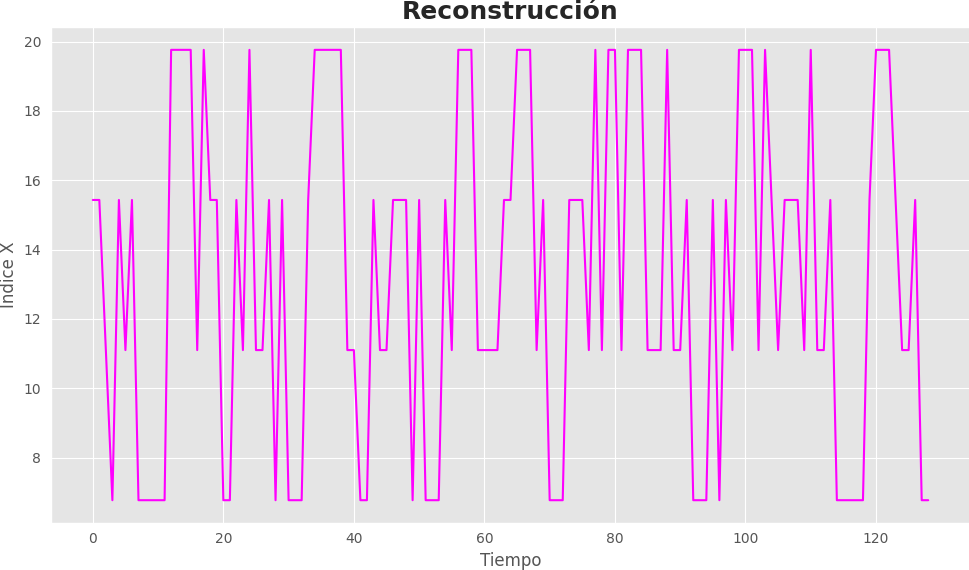
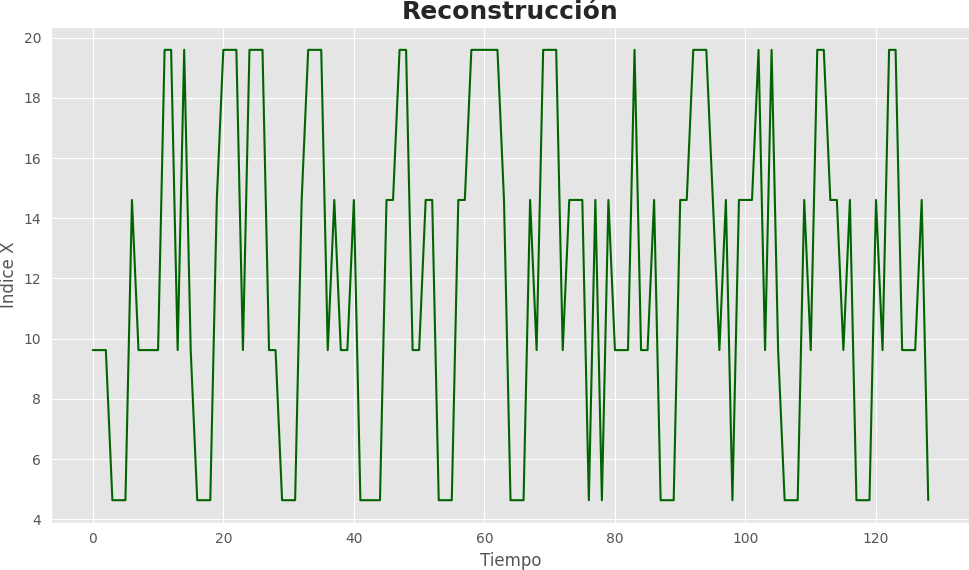
se añaden un par de test unitarios

diff --git a/generate_errors.py b/generate_errors.py
@@ -6,29 +6,31 @@ import tgen.calculate_ts_errors as cerr
 import sklearn.metrics as metrics
 import numpy as np
 import matplotlib.pyplot as plt
+import tgen.ts_plots as plot
 from PIL import Image
 from dtaidistance import dtw
 import cv2
 def main():
     data_name="WISDM"
-    data_folder="/home/adriano/Escritorio/TFG/data/WISDM/"
-     #voy a  obtener el maximo de todo el data set.
-    X_train, y_train, sj_train = act.load_numpy_datasets(data_name, data_folder, USE_RECONSTRUCTED_DATA=False)
-    
     data_folder="/home/adriano/Escritorio/TFG/data/WISDM/tseries/recurrence_plot/sampling_loto/3-fold/fold-0/train"
-    data_F1="/home/adriano/Escritorio/TFG/data/WISDM/tseries/recurrence_plot/"
-    #errores = np.load(f"{data_F1}/errores_rec2.npy")
+     #voy a  obtener el maximo de todo el data set.
+    img_type="MTF"
     indices_T=np.load(f"{data_folder}/training_data.npy")
-    X_all_rec=np.load(f"{data_folder}/X_all_rec.npy")
     
-    data_F1="/home/adriano/Escritorio/TFG/data/WISDM/tseries/GAF/sampling_loto/3-fold/fold-0/train"
-    errores = np.load(f"{data_F1}/errores_gaf.npy")
-    X_all_rec=np.load(f"/home/adriano/Escritorio/TFG/data/WISDM/tseries/GAF/sampling_loto/3-fold/fold-0/train/X_all_gaf.npy")
-    #errores2 = np.load(f"{data_folder}/errores_rec.npy")
+    if img_type=="RP":
+        data_F1="/home/adriano/Escritorio/TFG/data/WISDM/tseries/recurrence_plot/"
+        errores = np.load(f"{data_F1}/errores_rec.npy")
+        X_all_rec=np.load(f"{data_folder}/X_all_rec.npy")
+    if img_type=="GAF":
+        data_F1="/home/adriano/Escritorio/TFG/data/WISDM/tseries/GAF/sampling_loto/3-fold/fold-0/train"
+        errores = np.load(f"{data_F1}/errores_gaf.npy")
+        X_all_rec=np.load(f"/home/adriano/Escritorio/TFG/data/WISDM/tseries/GAF/sampling_loto/3-fold/fold-0/train/X_all_gaf.npy")
+        #errores2 = np.load(f"{data_folder}/errores_rec.npy")
     #data_folder="/home/adriano/Escritorio/TFG/data/WISDM/tseries/recurrence_plot/sampling_loto/3-fold/fold-0/train"
-    data_F1="/home/adriano/Escritorio/TFG/data/WISDM/tseries/MTF/"
-    #errores = np.load(f"{data_F1}/errores_mtf.npy")
-    
+    if img_type=="MTF":
+        data_F1="/home/adriano/Escritorio/TFG/data/WISDM/tseries/MTF/sampling_loto/3-fold/fold-0/train"
+        errores = np.load(f"{data_F1}/errores_mtf.npy")
+        X_all_rec=np.load(f"/home/adriano/Escritorio/TFG/data/WISDM/tseries/MTF/sampling_loto/3-fold/fold-0/train/X_all_mtf.npy")
     #print(sj_train[:,0])
      #print(f"Error Absoluto Promedio: {error_absoluto}")
       #print(f"Error Relativo Promedio: {error_relativo}")
@@ -51,11 +53,11 @@ def main():
                     print("ERROR TIPO {tipoerrores[i]}en dim {j}es :",np.mean(errores[:,i,j]))
                 print("ERROR TIPO {tipoerrores[i]} medio global es :",np.mean(errores[:,i,:]))
             """
-    print("min r Promedio",(errores[:,4,:][errores[:,4,:]<0.97]))    
-    indices=np.where(errores[:,4,:]<0.97) #PEOR PEARSON 2690 mejor pearson 2026
+    print("min r Promedio",(errores[:,4,:][errores[:,4,:]<4.09187097e-05]),np.min(errores[:,4,:]))    
+    indices=np.where(errores[:,4,:]<4.09187097e-05) #PEOR PEARSON 2690 mejor pearson 2026
     indices = list(zip(indices[0], indices[1]))
     print(indices)
-    print(errores[664,:,:])# 4913 candidata a mejor ideal ERROR relativo 
+    print(errores[3301,:,:])# 4913 candidata a mejor ideal ERROR relativo 
    
     """
     mejor pearson 2012 dim 0
@@ -70,10 +72,10 @@ def main():
     PEOR   ERROR relativo 3068, 1  450.10440276
           (2380, 1
     """
-    w=indices_T[664]
-    rp=X_all_rec[664]
+    w=indices_T[3301]
+    rp=X_all_rec[3301]
      
-    dim=0
+    dim=1
     """
      
      valoresa=np.linspace(-5, 20, 129)
@@ -103,43 +105,7 @@ def main():
 
 
      
-    # Configurar el estilo de los gráficos
-    plt.style.use("ggplot")  
-
-    # Gráfico original
-    plt.figure(figsize=(10, 6))
-    plt.plot(w[:, dim], marker='o', color='blue')
-    plt.title('Original', fontsize=18,fontweight="bold")
-    plt.xlabel("Tiempo", fontsize=12)
-    plt.ylabel('Índice X', fontsize=12)
-    plt.grid(True)
-    plt.tight_layout()
-    plt.savefig('original.png', bbox_inches='tight', pad_inches=0)
-    plt.clf()
-
-    # Gráfico reconstrucción
-    plt.figure(figsize=(10, 6))
-    plt.plot(rp[dim], marker='o', color='green')
-    plt.title('Reconstrucción', fontsize=18,fontweight="bold")
-    plt.xlabel('Tiempo', fontsize=12)
-    plt.ylabel('Índice X', fontsize=12)
-    plt.grid(True)
-    plt.tight_layout()
-    plt.savefig('reconstruccion.png', bbox_inches='tight', pad_inches=0)
-    plt.clf()
-
-    # Gráfico comparativa
-    plt.figure(figsize=(10, 6))
-    plt.plot(w[:, dim], marker='o', label='Original', color='blue')
-    plt.plot(rp[dim], marker='o', label='Reconstrucción', color='green')
-    plt.title('Comparativa', fontsize=18,fontweight="bold")
-    plt.xlabel("Tiempo", fontsize=12)
-    plt.ylabel('Índice X', fontsize=12)
-    plt.legend(fontsize=12)
-    plt.grid(True)
-    plt.tight_layout()
-    plt.savefig('Comparativa.png', bbox_inches='tight', pad_inches=0)
-    plt.clf()
+    plot.plot_time_series(w,rp,dim)
     
     f=np.array(w[:,dim])
     f=f[:]

diff --git a/Playground_tsplot.py b/Playground_tsplot.py
@@ -8,9 +8,11 @@ import tgen.ts_plots as plots
 import cv2
 import argparse
 
+"""./Playground_tsplot.py --image-type RP --dim 1"""
 def main():
      p = argparse.ArgumentParser(description=__doc__,formatter_class=argparse.ArgumentDefaultsHelpFormatter)
      p.add_argument('--image-type',type=str, default="RP", help='Also you can reconstruct one specific image type GAF,RP,MTF')
+     p.add_argument('--dim',type=int, default="0", help='0,1,2')
      args = p.parse_args()
      data_name="WISDM"
      data_folder="/home/adriano/Escritorio/TFG/data/WISDM/"
@@ -20,12 +22,8 @@ def main():
      #print(sj_train[:,0])
      #print(y_train[:,0])
      #print(X_train)
-     print("minimo",np.min(X_train))
-     print("maximo",np.max(X_train))
-     MAX=np.max(X_train)
-     MIN=np.min(X_train)
      #he obtenido el máximo y el minimo del dataset minimo -78.47761 maximo 66.615074
-     a=20
+     a=3301
      w = X_train[a]
      sj = sj_train[a][0]
      w_y = y_train[a]
@@ -39,24 +37,26 @@ def main():
          maximos=[np.max(l[:,0]),np.max(l[:,1]),np.max(l[:,2])]
          minimos=[np.min(l[:,0]),np.min(l[:,1]),np.min(l[:,2])]
          dictionary[k]=[maximos,minimos]
+
+     dim=args.dim
      if args.image_type=="MTF":
-        img = mtf.SavevarMTF_XYZ(w, sj, 0, "x", normalized = 1, path=f"./", TIME_STEPS=129) 
-        imagen = cv2.imread("./1600x0mtf.png")  
+        img = mtf.SavevarMTF_XYZ(w, 0, 0, "x", normalized = 1, path=f"./", TIME_STEPS=129) 
+        imagen = cv2.imread("./0x0mtf.png")  
         imagen = cv2.cvtColor(imagen, cv2.COLOR_BGR2RGB)
         print("Image shape",imagen.shape)
         rp=mtf.Reconstruct_MTF(imagen,dictionary,a)
      if  args.image_type=="RP": 
-        img = rec.SavevarRP_XYZ(w, sj, 0, "x", normalized = 1, path=f"./", TIME_STEPS=129) 
-        imagen = cv2.imread("./1600x0.png")  
+        img = rec.SavevarRP_XYZ(w, 0, 0, "x", normalized = 1, path=f"./", TIME_STEPS=129) 
+        imagen = cv2.imread("./0x0.png")  
         imagen = cv2.cvtColor(imagen, cv2.COLOR_BGR2RGB)
         print("Image shape",imagen.shape)
         rp,aux=rec.Reconstruct_RP(imagen,dictionary,a)
      if  args.image_type=="GAF": 
-        img = gaf.SavevarGAF_XYZ(w, sj, 0, "x", normalized = 1, path=f"./", TIME_STEPS=129) 
-        imagen = cv2.imread("./1600x0gasf.png")  
+        img = gaf.SavevarGAF_XYZ(w, 0, 0, "x", normalized = 1, path=f"./", TIME_STEPS=129) 
+        imagen = cv2.imread("./0x0gasf.png")  
         imagen = cv2.cvtColor(imagen, cv2.COLOR_BGR2RGB)
         print("Image shape",imagen.shape)
         rp=gaf.Reconstruct_GAF(imagen,dictionary,a)
-     plots.plot_time_series(w,rp,0)#dimensión deber ser un valor entre 0-2
+     plots.plot_time_series(w,rp,dim)#dimensión deber ser un valor entre 0-2
 if __name__ == '__main__':
     main()

diff --git a/tgen/MTF.py b/tgen/MTF.py
@@ -278,7 +278,7 @@ def MTF_to_TS(mtf,dictionary,index=0,numstates=4,TIMESTEPS=129):
     izq_val=pivote
     dch_indx=numstates//2+1 #3 
     dch_val=pivote
-    print(pivote,statematrix)
+    #print(pivote,statematrix)
     m=statematrix
     count=1 # ya hay un estado colocado
     while count!=numstates:
@@ -287,10 +287,10 @@ def MTF_to_TS(mtf,dictionary,index=0,numstates=4,TIMESTEPS=129):
             if(i!=np.argmax(mean_similarities)):
                 a.append(m[i,:])
         m=np.array(a)
-        print(izq_val,m)
-        print("TR",tr)
+        #print(izq_val,m)
+        #print("TR",tr)
         tr= np.delete(tr,np.where(tr==dch_val))
-        print("TR",tr)
+        #print("TR",tr)
         #tr contiene los indices correspondientes a la matriz m
         mean_similarities = np.sum(m, axis=1)
         izq_val=tr[np.argmax(mean_similarities)]
@@ -304,14 +304,14 @@ def MTF_to_TS(mtf,dictionary,index=0,numstates=4,TIMESTEPS=129):
         for i in range(0,len(m)):
             if(i!=np.argmax(mean_similarities)):
                 a.append(m[i,:])
-        print(dch_val,m)
+        
         m=np.array(a)
         mean_similarities = np.sum(m, axis=1)
         dch_val=tr[np.argmax(mean_similarities)]
         vector[dch_indx]=dch_val
         dch_indx-=1        
         count+=1
-        print(vector)
+       
 
 
     
@@ -456,7 +456,7 @@ def main():
      plt.title('Comparativa', fontsize=18,fontweight="bold")
      plt.xlabel("Tiempo", fontsize=12)
      plt.ylabel('Índice X', fontsize=12)
-     plt.legend(fontsize=12)
+     #plt.legend(loc="upper left",bbox_to_anchor=(1,1))
      plt.grid(True)
      plt.tight_layout()
      plt.savefig('Comparativa.png', bbox_inches='tight', pad_inches=0)

diff --git a/tgen/ts_plots.py b/tgen/ts_plots.py
@@ -25,7 +25,7 @@ def plot_time_series(original,reconstruccion,dim):
 
     # Gráfico reconstrucción
      plt.figure(figsize=(10, 6))
-     plt.plot(rp[dim], marker='', color='magenta')
+     plt.plot(rp[dim], marker='', color='darkgreen')
      plt.title('Reconstrucción', fontsize=18,fontweight="bold")
      plt.xlabel('Tiempo', fontsize=12)
      plt.ylabel('Índice X', fontsize=12)
@@ -37,11 +37,11 @@ def plot_time_series(original,reconstruccion,dim):
     # Gráfico comparativa
      plt.figure(figsize=(10, 6))
      plt.plot(w[:, dim], marker='', label='Original', color='blue')
-     plt.plot(rp[dim],linestyle="--", marker='', label='Reconstrucción', color='magenta')
+     plt.plot(rp[dim],linestyle="--", marker='', label='Reconstrucción', color='darkgreen')
      plt.title('Comparativa', fontsize=18,fontweight="bold")
      plt.xlabel("Tiempo", fontsize=12)
      plt.ylabel('Índice X', fontsize=12)
-     plt.legend(fontsize=12)
+     plt.legend(fontsize=12,loc="upper left")
      plt.grid(True)
      plt.tight_layout()
      plt.savefig('Comparativa.png', bbox_inches='tight', pad_inches=0)

diff --git a/generate_all_errors.py b/generate_all_errors.py
@@ -33,7 +33,7 @@ def main():
          w=indices_T[i]
          rp=X_all_mtf[i]
          error=[]
-         error_abs,error_r,error_q,error_std,error_p,te=cerr.ts_error(w,rp)
+         error_abs,error_r,error_q,error_std,error_p,te=cerr.ts_error(w,rp,flag=False)
          t+=te
          error.append(error_abs)
          error.append(error_r)
@@ -65,12 +65,10 @@ def main():
          errores_rec.append(error)
 
 
-    print("Desplazamientos :",t,t1,t2)
-    dataset_folder="/home/adriano/Escritorio/TFG/data/WISDM/"     
-    archivoerrores=f"{data_folder1}/errores_gaf.npy"
-    np.save(archivoerrores,np.array(errores_mtf))
-    dataset_folder="/home/adriano/Escritorio/TFG/data/WISDM/"     
+    print("Desplazamientos en el caso de t2 son inversiones :",t,t1,t2)
     archivoerrores=f"{data_folder2}/errores_mtf.npy"
+    np.save(archivoerrores,np.array(errores_mtf)) 
+    archivoerrores=f"{data_folder1}/errores_gaf.npy"    
     np.save(archivoerrores,np.array(errores_gasf))
     archivoerrores=f"{data_folder}/errores_rec.npy"
     np.save(archivoerrores,np.array(errores_rec))

diff --git a/tgen/calculate_ts_errors.py b/tgen/calculate_ts_errors.py
@@ -93,14 +93,14 @@ def ts_error(original,creada,flag=True):
                 #d = dtw.distance_fast(original[:-1,i], creada[i], use_pruning=True)
                 rms=rmse(original[:,i], minv)
                 std=stderror(original[:,i], minv)
-                pearson=pearsona
+                pearson=np.abs(pearsona)
                 t+=1
               else :
                 error_absoluto, error_relativo = calcular_errores(original[:,i], creada[i])
                 #d = dtw.distance_fast(original[:-1,i], creada[i], use_pruning=True)
                 rms=rmse(original[:,i], creada[i])
                 std=stderror(original[:,i], creada[i])
-                pearson=pearsonb
+                pearson=np.abs(pearsonb)
                 
               #print(f"Error Absoluto Promedio: {error_absoluto}")
               #print(f"Error Relativo Promedio: {error_relativo}")
